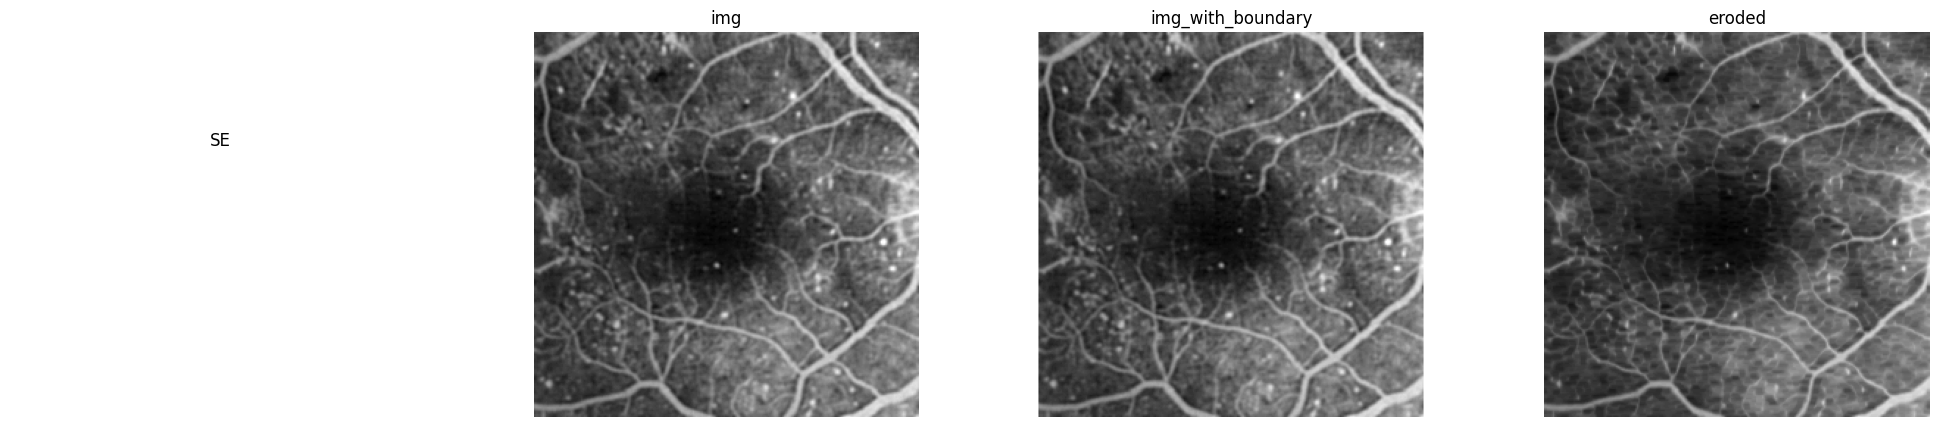
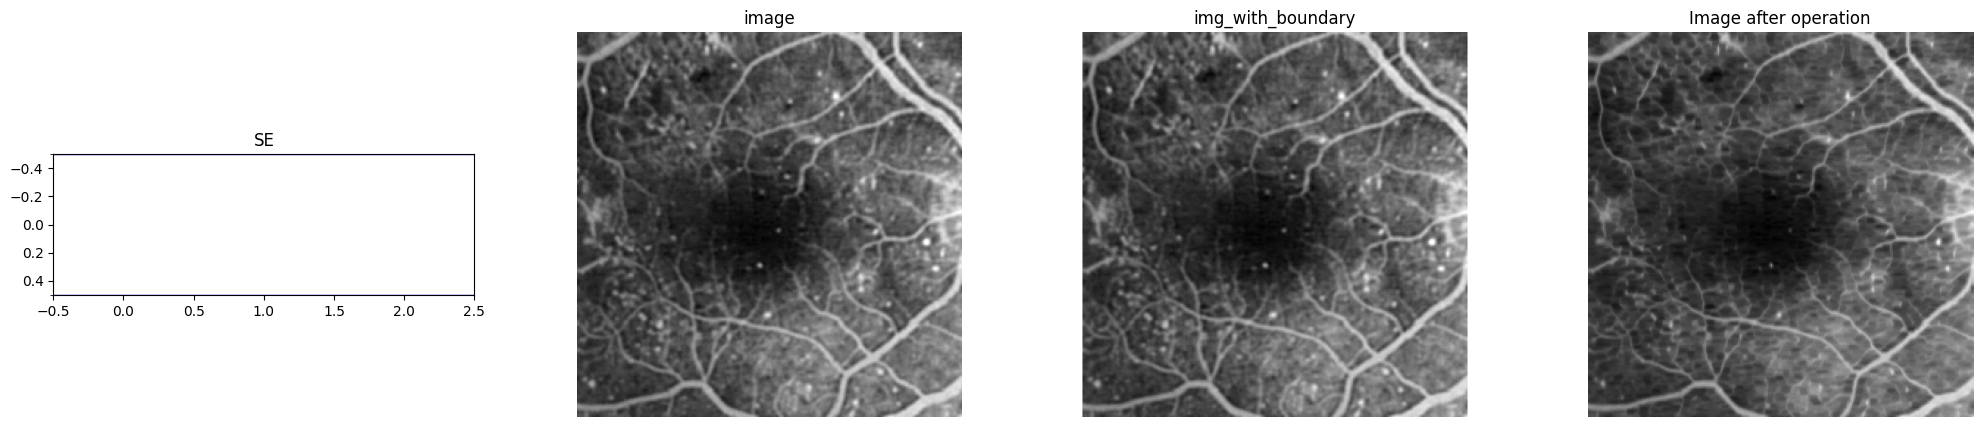
images till qs11

diff --git a/assignment-1/main.py b/assignment-1/main.py
@@ -68,7 +68,7 @@ def morph_operation(img, SE, operation_type, direction, output_filename):
     ax.grid(which='minor', color='b', linestyle='-', linewidth=1)
     plt.imshow(SE, cmap='gray', vmin=0, vmax=1)
     plt.title('SE')
-    plt.axis('off') if turn_off_axes else None
+    # plt.axis('off') if turn_off_axes else None
 
     # plot main images
     plt.subplot(1, 4, 2)
@@ -79,7 +79,7 @@ def morph_operation(img, SE, operation_type, direction, output_filename):
     ax.grid(which='minor', color='b', linestyle='-', linewidth=1)
 
     plt.imshow(img, cmap='gray', vmin=0, vmax=vmax)
-    plt.title('img')
+    plt.title('image')
     plt.axis('off') if turn_off_axes else None
 
     # Plot the bordered image
@@ -102,7 +102,7 @@ def morph_operation(img, SE, operation_type, direction, output_filename):
     ax.grid(which='minor', color='b', linestyle='-', linewidth=1)
 
     plt.imshow(img_output, cmap='gray', vmin=0, vmax=vmax)
-    plt.title('eroded')
+    plt.title('Image after operation')
     plt.axis('off') if turn_off_axes else None
     # plt.show()
     plt.savefig(output_filename + ".png", bbox_inches='tight')
